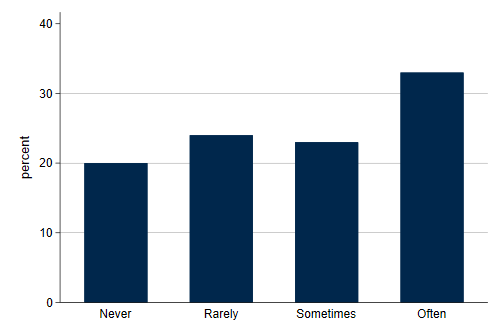
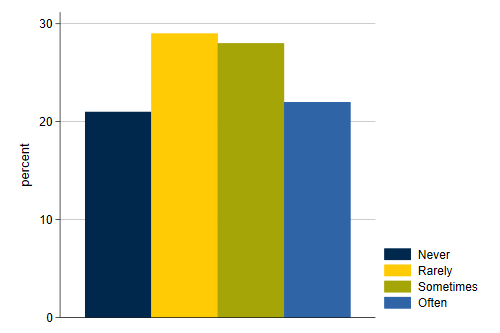
content updates

diff --git a/myposts/why-Excel-is-a-bad-format-for-storing-data.html b/myposts/why-Excel-is-a-bad-format-for-storing-data.html
@@ -51,11 +51,13 @@ table:not([class]) tbody:last-child tr:last-child td {border-bottom:1px solid bl
 <div id="header">
 <h1 class="title">Why Excel Is A Bad Format For Storing Data</h1>
 <h2 class="author">Andy Grogan-Kaylor</h2>
-<h3 class="date">20 Jul 2022 09:05:37</h3>
+<h3 class="date">26 Jul 2022 09:48:18</h3>
 </div>
 <style>body {max-width: 90%;} h1 {color: #00274C;} h2 {color: #2F65A7;} blockquote {border-left: 5px solid #ffcb05; margin: 1.5em 10px; padding: 0.5em 10px;} code {color: red;}</style>
 <h1 id="setup">Setup</h1>
 <pre class='stata'>. clear all
+</pre>
+<pre class='stata'>. set seed 3846 // random seed for data
 </pre>
 <h1 id="simulate-data-so-that-we-have-some-data-to-work-with">Simulate Data So That We Have Some Data To Work With</h1>
 <pre class='stata'>. set obs 100 // 100 observations
@@ -65,13 +67,13 @@ Number of observations (_N) was 0, now 100.
 </pre>
 <pre class='stata'>. label variable id "id"
 </pre>
-<pre class='stata'>. generate Q1 = runiformint(1,4) // randomly simulated Question 1
+<pre class='stata'>. generate happy = runiformint(1,4) // randomly simulated Question 1
 </pre>
-<pre class='stata'>. label variable Q1 "How often do you feel happy?" // add variable label
+<pre class='stata'>. label variable happy "How often do you feel happy?" // add variable label
 </pre>
 <pre class='stata'>. label define Likert1 1 "Never" 2 "Rarely" 3 "Sometimes" 4 "Often" // define value label
 </pre>
-<pre class='stata'>. label values Q1 Likert1 // add value label to Q1
+<pre class='stata'>. label values happy Likert1 // add value label to happy
 </pre>
 <h1 id="now-look-at-the-data-we-have">Now Look At The Data We Have</h1>
 <h2 id="describe-the-data">Describe The Data</h2>
@@ -85,7 +87,7 @@ Variable      Storage   Display    Value
     name         type    format    label      Variable label
 ────────────────────────────────────────────────────────────────────────────────────────────────────────────────────────────────────────────────
 id              float   %9.0g                 id
-Q1              float   %9.0g      Likert1    How often do you feel happy?
+happy           float   %9.0g      Likert1    How often do you feel happy?
 ────────────────────────────────────────────────────────────────────────────────────────────────────────────────────────────────────────────────
 Sorted by: 
      Note: Dataset has changed since last saved.
@@ -94,18 +96,18 @@ Sorted by:
 <pre class='stata'>. list in 1/10
 
      ┌────────────────┐
-     │ id          Q1 │
+     │ id       happy │
      ├────────────────┤
-  1. │  1      Rarely │
+  1. │  1       Never │
   2. │  2   Sometimes │
-  3. │  3       Often │
-  4. │  4       Often │
+  3. │  3       Never │
+  4. │  4   Sometimes │
   5. │  5   Sometimes │
      ├────────────────┤
-  6. │  6      Rarely │
-  7. │  7       Often │
+  6. │  6       Often │
+  7. │  7      Rarely │
   8. │  8   Sometimes │
-  9. │  9       Often │
+  9. │  9       Never │
  10. │ 10      Rarely │
      └────────────────┘
 </pre>
@@ -114,21 +116,21 @@ Sorted by:
 <p>Notice how the descriptive statistics and graph are informative in that they contain information on the <em>variable label</em> and <em>value label</em>. These help us to get an intuitive sense of the information in the data.</p>
 </blockquote>
 <h3 id="descriptive-statistics">Descriptive Statistics</h3>
-<pre class='stata'>. tabulate Q1
+<pre class='stata'>. tabulate happy
 
   How often │
 do you feel │
      happy? │      Freq.     Percent        Cum.
 ────────────┼───────────────────────────────────
-      Never │         20       20.00       20.00
-     Rarely │         24       24.00       44.00
-  Sometimes │         23       23.00       67.00
-      Often │         33       33.00      100.00
+      Never │         21       21.00       21.00
+     Rarely │         29       29.00       50.00
+  Sometimes │         28       28.00       78.00
+      Often │         22       22.00      100.00
 ────────────┼───────────────────────────────────
       Total │        100      100.00
 </pre>
 <h3 id="bar-graph">Bar Graph</h3>
-<pre class='stata'>. graph bar, over(Q1) scheme(michigan)
+<pre class='stata'>. graph bar, over(happy) scheme(michigan2) asyvars
 </pre>
 <pre class='stata'>. graph export mybar1.png, width(500) replace
 file mybar1.png saved as PNG format
@@ -138,28 +140,31 @@ file mybar1.png saved as PNG format
 <p class="caption">Bar Graph</p>
 </div>
 <h1 id="now-simulate-removing-the-information-that-is-lost-when-saving-to-excel">Now Simulate Removing The Information That Is Lost When Saving to Excel</h1>
-<pre class='stata'>. label variable Q1 // drop variable label
+<pre class='stata'>. label variable happy // drop variable label
 </pre>
-<pre class='stata'>. label values Q1 // drop value label 
+<pre class='stata'>. label values happy // drop value label 
 </pre>
 <h2 id="descriptive-statistics-and-bar-graph-1">Descriptive Statistics and Bar Graph</h2>
 <blockquote>
-<p>Notice how the descriptive statistics and graph are much less informative. For example, it is now not immediately clear what <code>Q1</code> represents. It is also not clear whether higher values of <code>Q1</code> represent higher levels of <em>happiness</em>, or higher levels of <em>unhappiness</em>, a crucially important substantive distinction. The information on variable label and value label will have to be added back into the data when preparing a report for dissemination.</p>
+<p>Notice how the descriptive statistics and graph are much less informative. For example, it is now not immediately clear what <code>happy</code> represents, although we certainly have some idea from the variable name.</p>
+</blockquote>
+<blockquote>
+<p>It is also not clear whether higher values of <code>happy</code> represent higher levels of <em>happiness</em>, or higher levels of <em>unhappiness</em>, a crucially important substantive distinction. The information on variable label and value label will have to be added back into the data when preparing a report for dissemination.</p>
 </blockquote>
 <h3 id="descriptive-statistics-1">Descriptive Statistics</h3>
-<pre class='stata'>. tabulate Q1
+<pre class='stata'>. tabulate happy
 
-         Q1 │      Freq.     Percent        Cum.
+      happy │      Freq.     Percent        Cum.
 ────────────┼───────────────────────────────────
-          1 │         20       20.00       20.00
-          2 │         24       24.00       44.00
-          3 │         23       23.00       67.00
-          4 │         33       33.00      100.00
+          1 │         21       21.00       21.00
+          2 │         29       29.00       50.00
+          3 │         28       28.00       78.00
+          4 │         22       22.00      100.00
 ────────────┼───────────────────────────────────
       Total │        100      100.00
 </pre>
 <h3 id="bar-graph-1">Bar Graph</h3>
-<pre class='stata'>. graph bar, over(Q1) scheme(michigan)
+<pre class='stata'>. graph bar, over(happy) scheme(michigan2) asyvars
 </pre>
 <pre class='stata'>. graph export mybar2.png, width(500) replace
 file mybar2.png saved as PNG format
